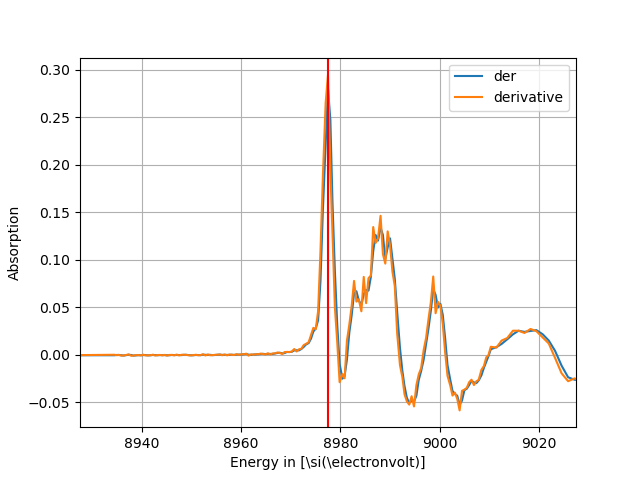
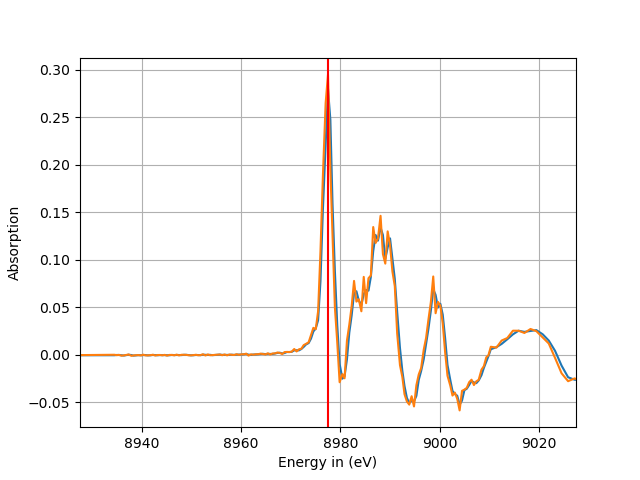
Added Object based approach to plotting, changed outputname to make autocomplete easier, added label at kedge energy

Changed region(s): [[0.375, 0.9375, 0.6562, 1.0], [0.7188, 0.125, 0.875, 0.2188]]

diff --git a/plots.py b/plots.py
@@ -1,3 +1,4 @@
+#!/usr/bin/python3
 import matplotlib.pyplot as plt
 import pandas as pd
 import numpy as np
@@ -9,19 +10,19 @@ df=pd.read_table(
             'chie'
             ]
         )
-axesy = 'derivative'
 
 df['derivative']= df.xmu.diff(periods=-1)/df.e.diff(periods=-1)
-
 kedge = df.e[df.derivative.idxmax()]
 
-df.plot(x='e', y=['der', 'derivative'])
-plt.xlabel('Energy in [\si(\electronvolt)]')
-plt.ylabel('Absorption')
-plt.grid(axis='both')
-plt.axvline(x=kedge, color='red')
-plt.xlim([kedge-50,kedge+50])
-
-print(kedge)
-plt.savefig("plot.png")
+fig=plt.figure()
+ax=fig.add_subplot()
+ax.plot(df['e'], df['der'])
+ax.plot(df['e'], df['derivative'])
+ax.set_xlabel('Energy in (eV)')
+ax.set_ylabel('Absorption')
+ax.grid(axis='both')
+ax.axvline(x=kedge, color='red')
+ax.set_xlim([kedge-50,kedge+50])
+ax.text(kedge+1, 0.3, str(kedge))
+plt.savefig("figure.png")
 #plt.show()
